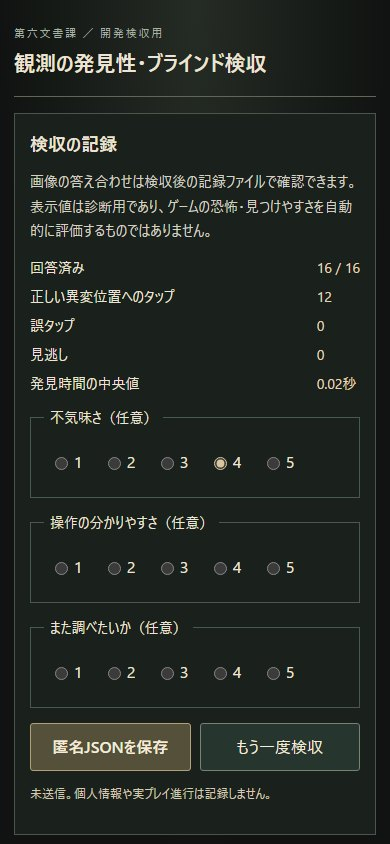
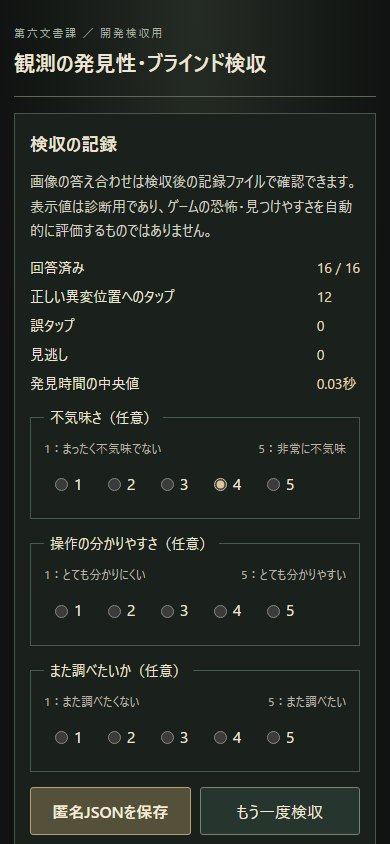
Clarify blind QA rating scale anchors

diff --git a/qa/observation-blind.js b/qa/observation-blind.js
@@ -115,11 +115,22 @@
   get('result-time').textContent=stats.medianHitMs===null?'―':(stats.medianHitMs/1000).toFixed(2)+'秒';
  }
  function setupSurvey(){
+  const scales={
+   unease:{label:'不気味さ',low:'まったく不気味でない',high:'非常に不気味'},
+   clarity:{label:'操作の分かりやすさ',low:'とても分かりにくい',high:'とても分かりやすい'},
+   return:{label:'再調査意欲',low:'また調べたくない',high:'また調べたい'}
+  };
   document.querySelectorAll('[data-survey]').forEach(container=>{
    const key=container.dataset.survey;
+   const scale=scales[key];
+   const axis=document.createElement('p'),low=document.createElement('span'),high=document.createElement('span');
+   axis.className='survey-axis';axis.id='survey-'+key+'-axis';
+   low.textContent='1：'+scale.low;high.textContent='5：'+scale.high;
+   axis.append(low,high);container.before(axis);
    for(let n=1;n<=5;n++){
     const label=document.createElement('label'),input=document.createElement('input');
     input.type='radio';input.name='survey-'+key;input.value=String(n);
+    if(n===1||n===5)input.setAttribute('aria-label',scale.label+' '+n+'：'+(n===1?scale.low:scale.high));
     label.append(input,document.createTextNode(String(n)));
     container.append(label);
    }

diff --git a/qa/observation-blind.html b/qa/observation-blind.html
@@ -27,8 +27,9 @@ button:disabled{opacity:.45;cursor:default}button.primary{background:#54503a;bor
 fieldset{border:1px solid #465b4d;margin:15px 0;padding:13px}legend{padding:0 6px;font-size:14px}
 .survey-row{display:flex;gap:9px;flex-wrap:wrap}.survey-row label{min-width:44px;min-height:44px;display:flex;align-items:center;gap:3px;justify-content:center;cursor:pointer}
 .survey-row input{accent-color:#c9ae76}
+.survey-axis{display:flex;justify-content:space-between;gap:10px;margin:0 0 4px;color:#bdb4a4;font-size:12px;line-height:1.45}.survey-axis span:last-child{text-align:right}
 #session-info{color:#d4c9b5;font-size:12px}
-@media(max-width:350px){main{padding-inline:10px}.panel{padding-inline:10px}.actions button{font-size:13px;padding-inline:6px}}
+@media(max-width:350px){main{padding-inline:10px}.panel{padding-inline:10px}.actions button{font-size:13px;padding-inline:6px}.survey-axis{font-size:11px}}
 @media(prefers-reduced-motion:reduce){*{animation:none!important;transition:none!important;scroll-behavior:auto!important}}
 </style>
 </head>

diff --git a/docs/OBSERVATION-BLIND-QA.md b/docs/OBSERVATION-BLIND-QA.md
@@ -11,7 +11,7 @@
 1. 自分のスマホから同ページを開く（またはローカルHTTPサーバーで `qa/observation-blind.html` を開く）。同じ条件で実施するため、縦画面・端末の明るさ・低刺激設定を統一する。
 2. 「検収を開始」から16枚をランダムな順番で観察する。違和感を見つけたらその場所をタップ。ないと思えば「異変は見つからない」、確信できなければ「判断できない」。
 3. 途中に正解・レア度・異変場所を見せず、結果と報酬をフィードバックしない。取得済み情報があるテスターは「以前に見たことがある」と別途申告する。
-4. 16枚終了後、主観（不気味さ／分かりやすさ／また調べたさ、各1〜5）を任意入力し「匿名JSONを保存」。各回答は表示までのミリ秒、タップ画像内座標、正誤区分を含む。
+4. 16枚終了後、主観（不気味さ／分かりやすさ／また調べたさ、各1〜5）を任意入力し「匿名JSONを保存」。各尺度の1と5には意味を表示し、中間値はその間として選ぶ。各回答は表示までのミリ秒、タップ画像内座標、正誤区分を含む。
 5. 複数人の結果を個人識別しない形で比較する。**初回の正しい発見までの中央値、見逃し、誤タップ、見つからない選択、主観**を別々に解釈し、特に暗い夜道R/SSR・踏切SRを優先して判断する。
 
 ## 現在の限界
